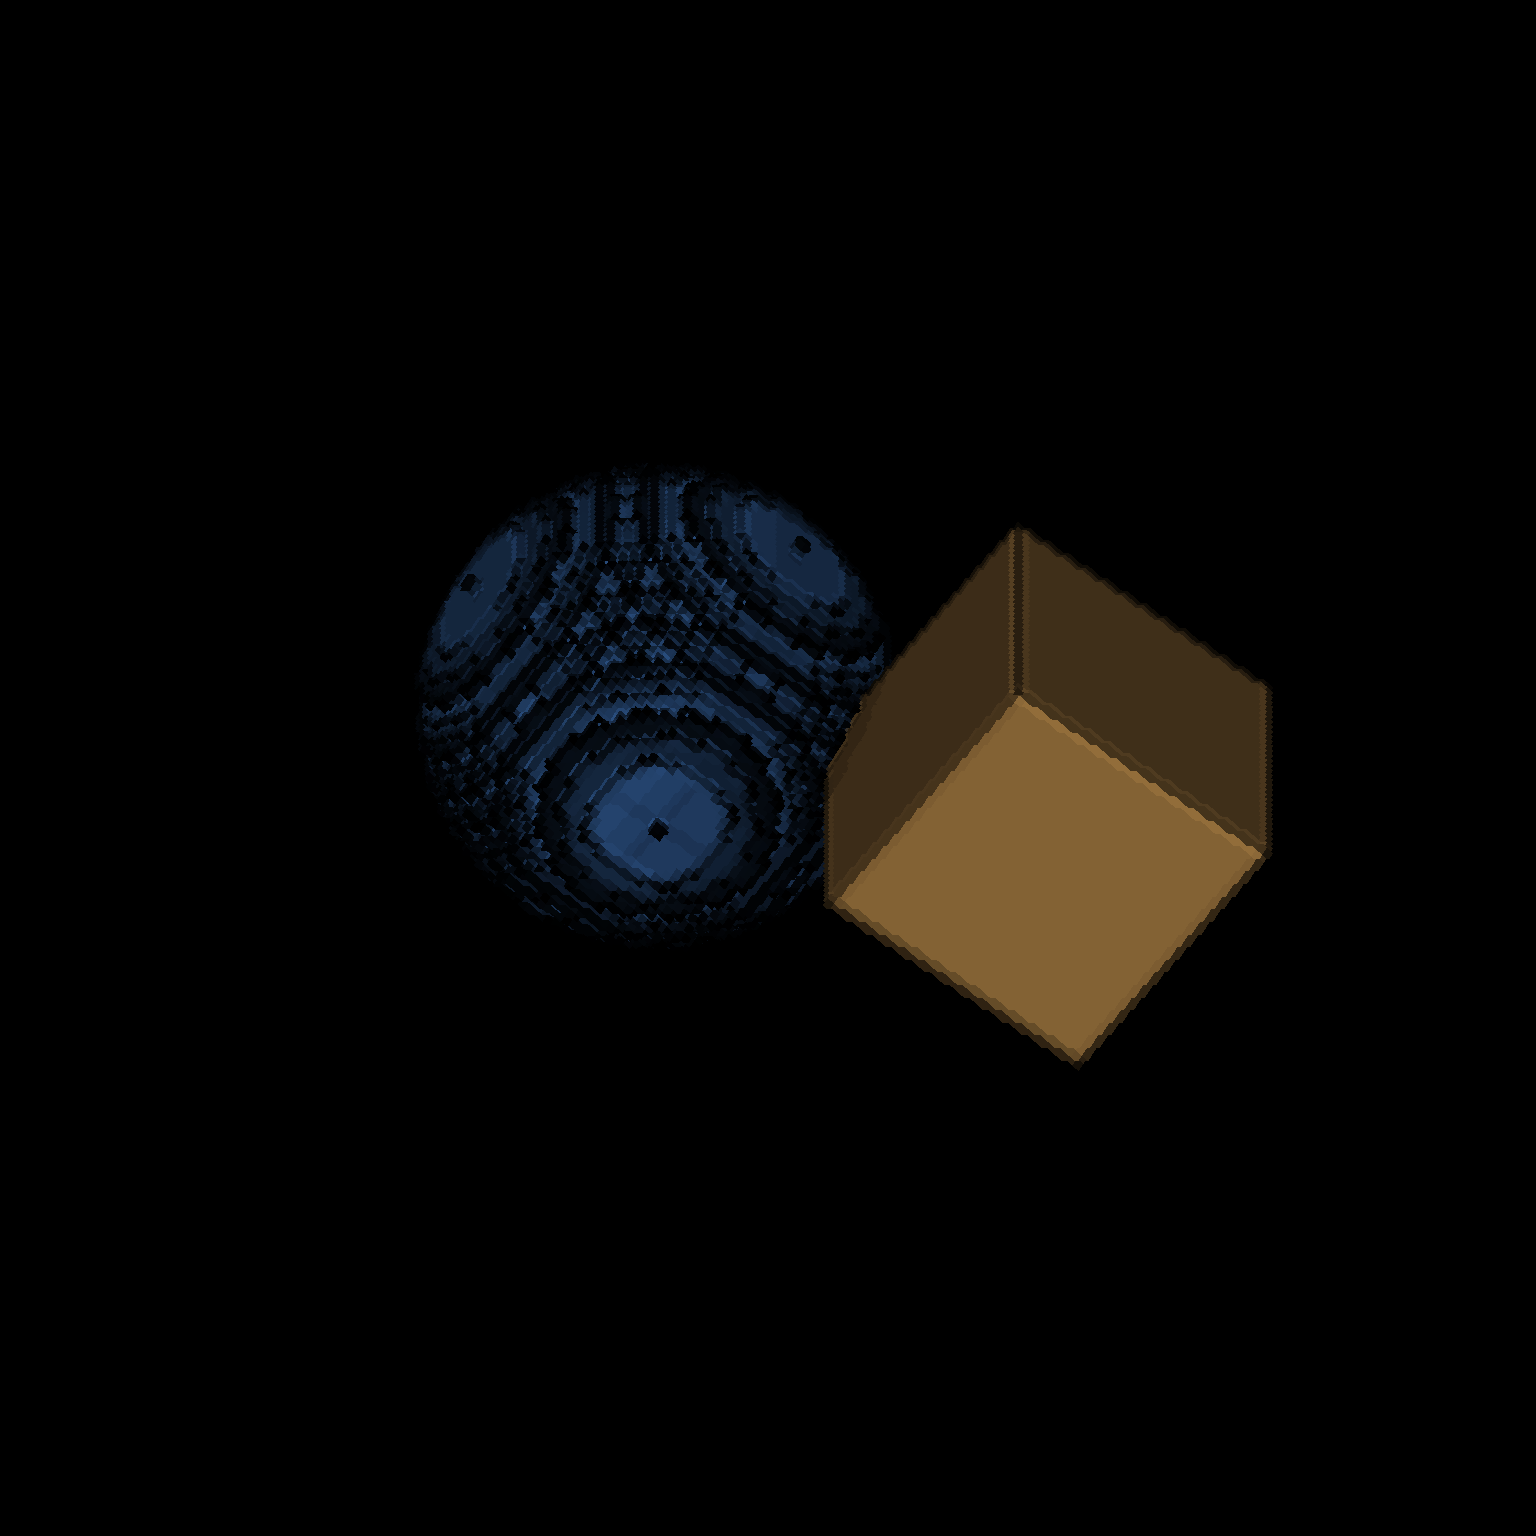
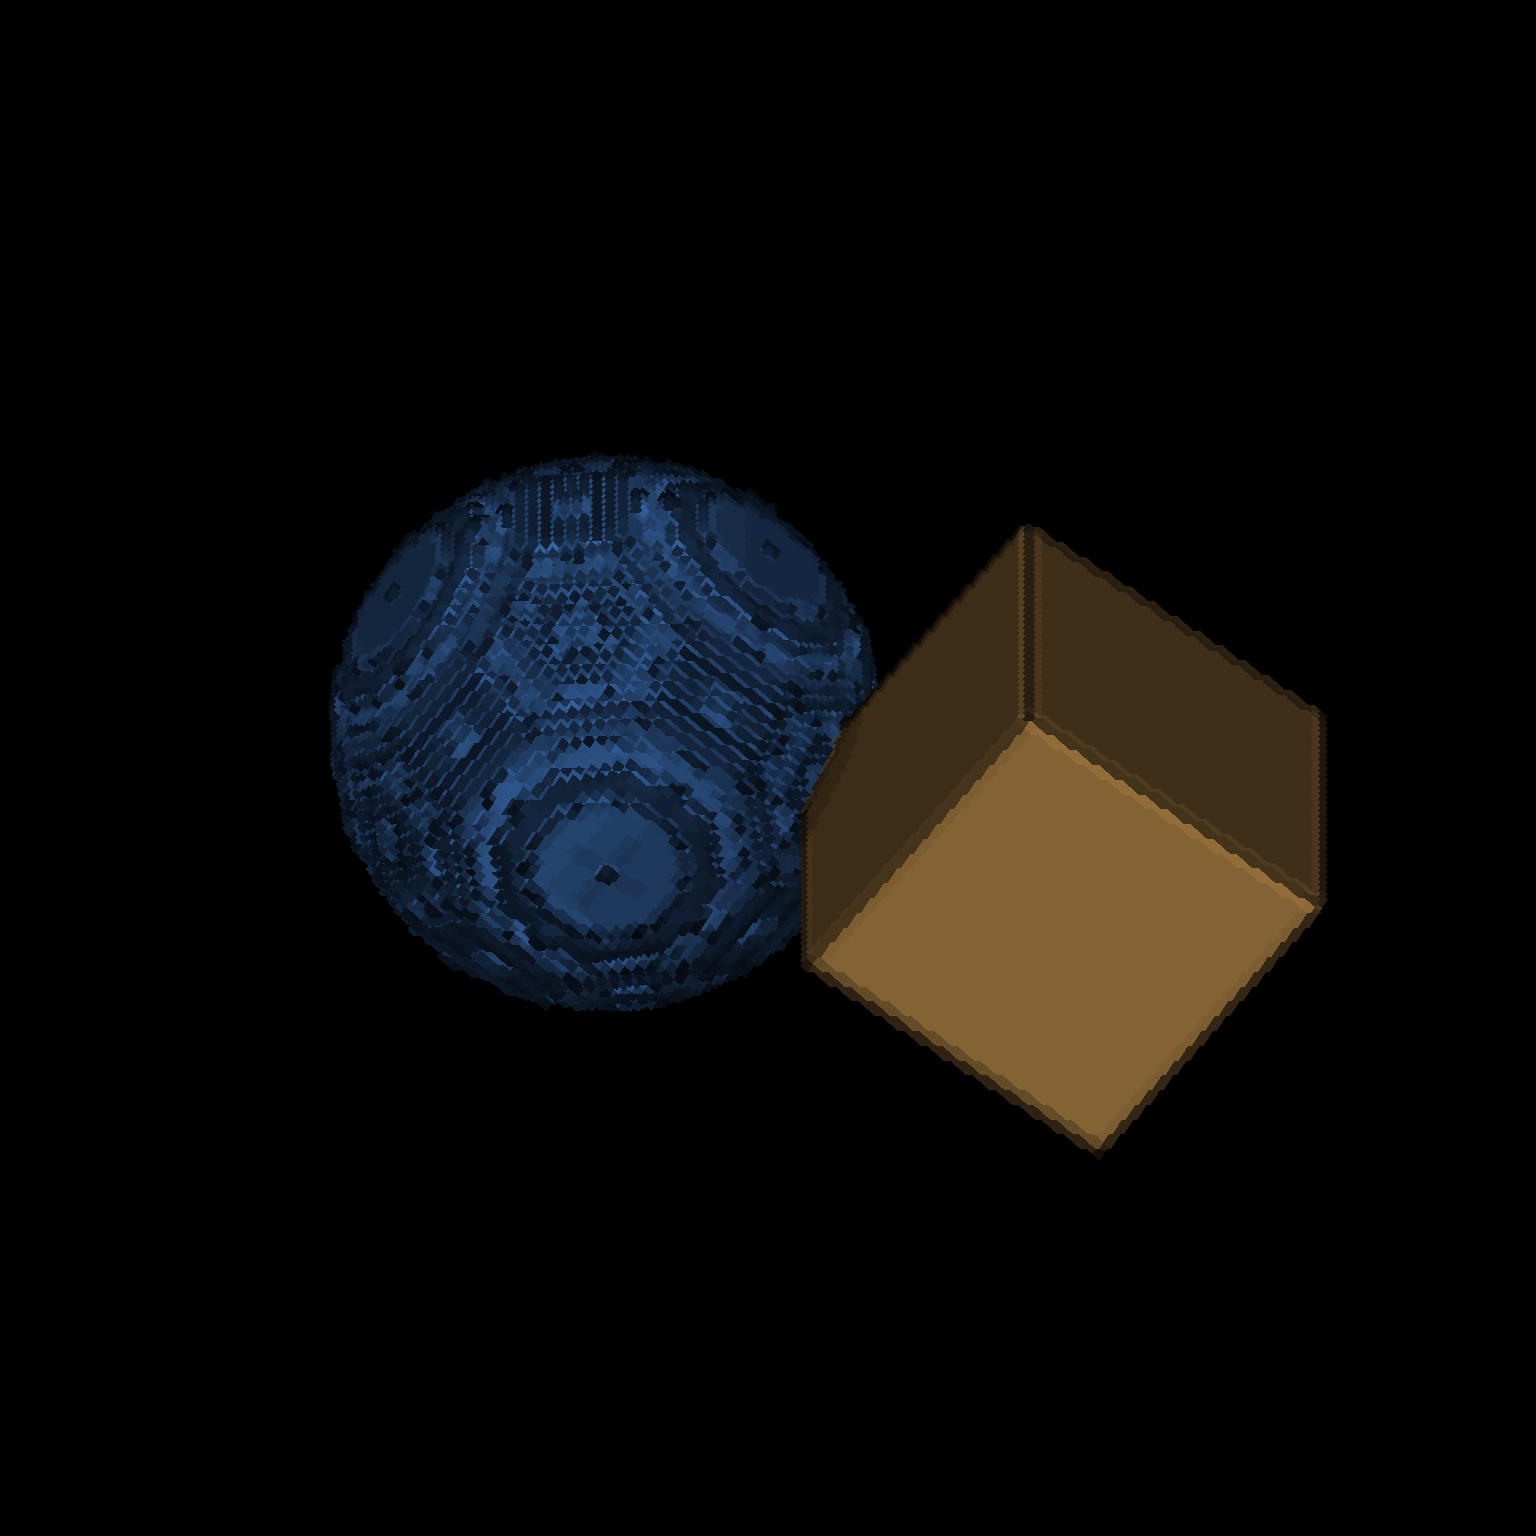
修复网格黑洞与自动取景（按评审意见第 1、4 条）
- 网格渲染：
  1) 法线不再按三角形绕序累加，而是用「包围盒中心 → 三角形重心」定向，
     保证法线朝外；之前绕序不一致导致相邻三角形法线互相抵消，
     大片区域只剩环境光，看起来像黑洞（其实三角形都在，是着色错了）
  2) 重心坐标接受两种绕序（都取绝对值再判定），不再丢弃反向三角形
  3) 按顶点包围盒自动取景（中心 + 1.6 倍最大边长），小物体也能占满画面
- 体彩绘制：按内容包围盒自动取景；实体判定从 sum>0 改成 sum>96，
  避免三线性放大出来的半透明边界参与法线计算
- 结果：等值面 1536 图上的黑洞消失（球面完整），交膨胀不再是一个小点
- 仍未解决（评审第 2、3 条）：体素级法线导致的条带、并集接缝处偏暗 —— 结构性解法是
  SDF 布尔（并=min、交=max、差=max(a,-b)），下一轮做
- 回归：测试 182/184（跳过 2，0 失败）

diff --git a/wen.cpp b/wen.cpp
@@ -15116,6 +15116,17 @@ Interpreter::Interpreter() {
         size_t nt = ib->size() / 12;
         const float* V = reinterpret_cast<const float*>(vb->data());
         const unsigned int* T = reinterpret_cast<const unsigned int*>(ib->data());
+        // 先把包围盒算出来（取景 + 法线定向都要用）
+        double bmin3[3] = {1e30, 1e30, 1e30}, bmax3[3] = {-1e30, -1e30, -1e30};
+        if (nv > 0) {
+            for (size_t i = 0; i < nv; ++i)
+                for (int k = 0; k < 3; ++k) {
+                    double q = V[i * 3 + k];
+                    if (q < bmin3[k]) bmin3[k] = q;
+                    if (q > bmax3[k]) bmax3[k] = q;
+                }
+        }
+        double boxc[3] = {(bmin3[0] + bmax3[0]) / 2.0, (bmin3[1] + bmax3[1]) / 2.0, (bmin3[2] + bmax3[2]) / 2.0};
         std::vector<double> nx(nv, 0), ny(nv, 0), nz(nv, 0);
         for (size_t t = 0; t < nt; ++t) {
             unsigned i0 = T[t * 3], i1 = T[t * 3 + 1], i2 = T[t * 3 + 2];
@@ -15123,10 +15134,21 @@ Interpreter::Interpreter() {
             double ax = V[i1 * 3] - V[i0 * 3], ay = V[i1 * 3 + 1] - V[i0 * 3 + 1], az = V[i1 * 3 + 2] - V[i0 * 3 + 2];
             double bx = V[i2 * 3] - V[i0 * 3], by = V[i2 * 3 + 1] - V[i0 * 3 + 1], bz = V[i2 * 3 + 2] - V[i0 * 3 + 2];
             double cx2 = ay * bz - az * by, cy2 = az * bx - ax * bz, cz2 = ax * by - ay * bx;
+            // 用「从包围盒中心指向三角形」的方向定向，保证法线朝外
+            double mx2 = (V[i0 * 3] + V[i1 * 3] + V[i2 * 3]) / 3.0 - boxc[0];
+            double my2 = (V[i0 * 3 + 1] + V[i1 * 3 + 1] + V[i2 * 3 + 1]) / 3.0 - boxc[1];
+            double mz2 = (V[i0 * 3 + 2] + V[i1 * 3 + 2] + V[i2 * 3 + 2]) / 3.0 - boxc[2];
+            if (cx2 * mx2 + cy2 * my2 + cz2 * mz2 < 0) { cx2 = -cx2; cy2 = -cy2; cz2 = -cz2; }
             for (unsigned ii : {i0, i1, i2}) { nx[ii] += cx2; ny[ii] += cy2; nz[ii] += cz2; }
         }
+        // 自动取景：按顶点包围盒定中心与比例
         double cen[3] = {(vol->C - 1) / 2.0, (vol->R - 1) / 2.0, (vol->L - 1) / 2.0};
         double sc = std::max(vol->C, std::max(vol->R, vol->L)) * 1.45;
+        if (nv > 0) {
+            for (int k = 0; k < 3; ++k) cen[k] = boxc[k];
+            double ext = std::max(bmax3[0] - bmin3[0], std::max(bmax3[1] - bmin3[1], bmax3[2] - bmin3[2]));
+            if (ext > 1e-6) sc = ext * 1.6;
+        }
         auto img = std::make_shared<vector<unsigned char>>((size_t)(W * H * 3), 0);
         std::vector<double> zbuf((size_t)(W * H), 1e30);
         for (size_t t = 0; t < nt; ++t) {
@@ -15159,6 +15181,7 @@ Interpreter::Interpreter() {
                     double l0 = ((sy[1] - sy[2]) * (px2 - sx[2]) + (sx[2] - sx[1]) * (py2 - sy[2])) / den;
                     double l1 = ((sy[2] - sy[0]) * (px2 - sx[2]) + (sx[0] - sx[2]) * (py2 - sy[2])) / den;
                     double l2 = 1.0 - l0 - l1;
+                    if (l0 < 0 || l1 < 0 || l2 < 0) { l0 = -l0; l1 = -l1; l2 = -l2; }
                     if (l0 < 0 || l1 < 0 || l2 < 0) continue;
                     double zz = l0 * sz[0] + l1 * sz[1] + l2 * sz[2];
                     size_t o = (size_t)(y * W + x);
@@ -15867,8 +15890,31 @@ Interpreter::Interpreter() {
         auto solid = [&](long long l, long long r, long long c) -> double {
             if (l < 0 || r < 0 || c < 0 || l >= v->L || r >= v->R || c >= v->C) return 0.0;
             int s = rdpx(l, r, c, 0) + rdpx(l, r, c, 1) + rdpx(l, r, c, 2);
-            return s > 0 ? 1.0 : 0.0;
+            return s > 96 ? 1.0 : 0.0;      // 阈值化：三线性放大出来的半透明边界不算实体
         };
+        // 自动取景：扫一遍内容包围盒，物体再小也会占满画面
+        {
+            int lo[3] = {v->L, v->R, v->C}, hi[3] = {-1, -1, -1};
+            for (int l = 0; l < v->L; ++l)
+                for (int r = 0; r < v->R; ++r)
+                    for (int c = 0; c < v->C; ++c) {
+                        size_t o = (size_t)((l * v->R + r) * v->C + c) * 3;
+                        if (v->rgb[o] + v->rgb[o + 1] + v->rgb[o + 2] == 0) continue;
+                        if (l < lo[0]) lo[0] = l;
+                        if (l > hi[0]) hi[0] = l;
+                        if (r < lo[1]) lo[1] = r;
+                        if (r > hi[1]) hi[1] = r;
+                        if (c < lo[2]) lo[2] = c;
+                        if (c > hi[2]) hi[2] = c;
+                    }
+            if (hi[0] >= 0) {
+                cz = (lo[0] + hi[0]) / 2.0;
+                cy = (lo[1] + hi[1]) / 2.0;
+                cx = (lo[2] + hi[2]) / 2.0;
+                double ext = std::max(hi[0] - lo[0], std::max(hi[1] - lo[1], hi[2] - lo[2])) + 1.0;
+                rad = ext * 0.95 + 1.0;
+            }
+        }
         for (long long py = 0; py < H; ++py) {
             for (long long px = 0; px < W; ++px) {
                 double accR = 0, accG = 0, accB = 0;
